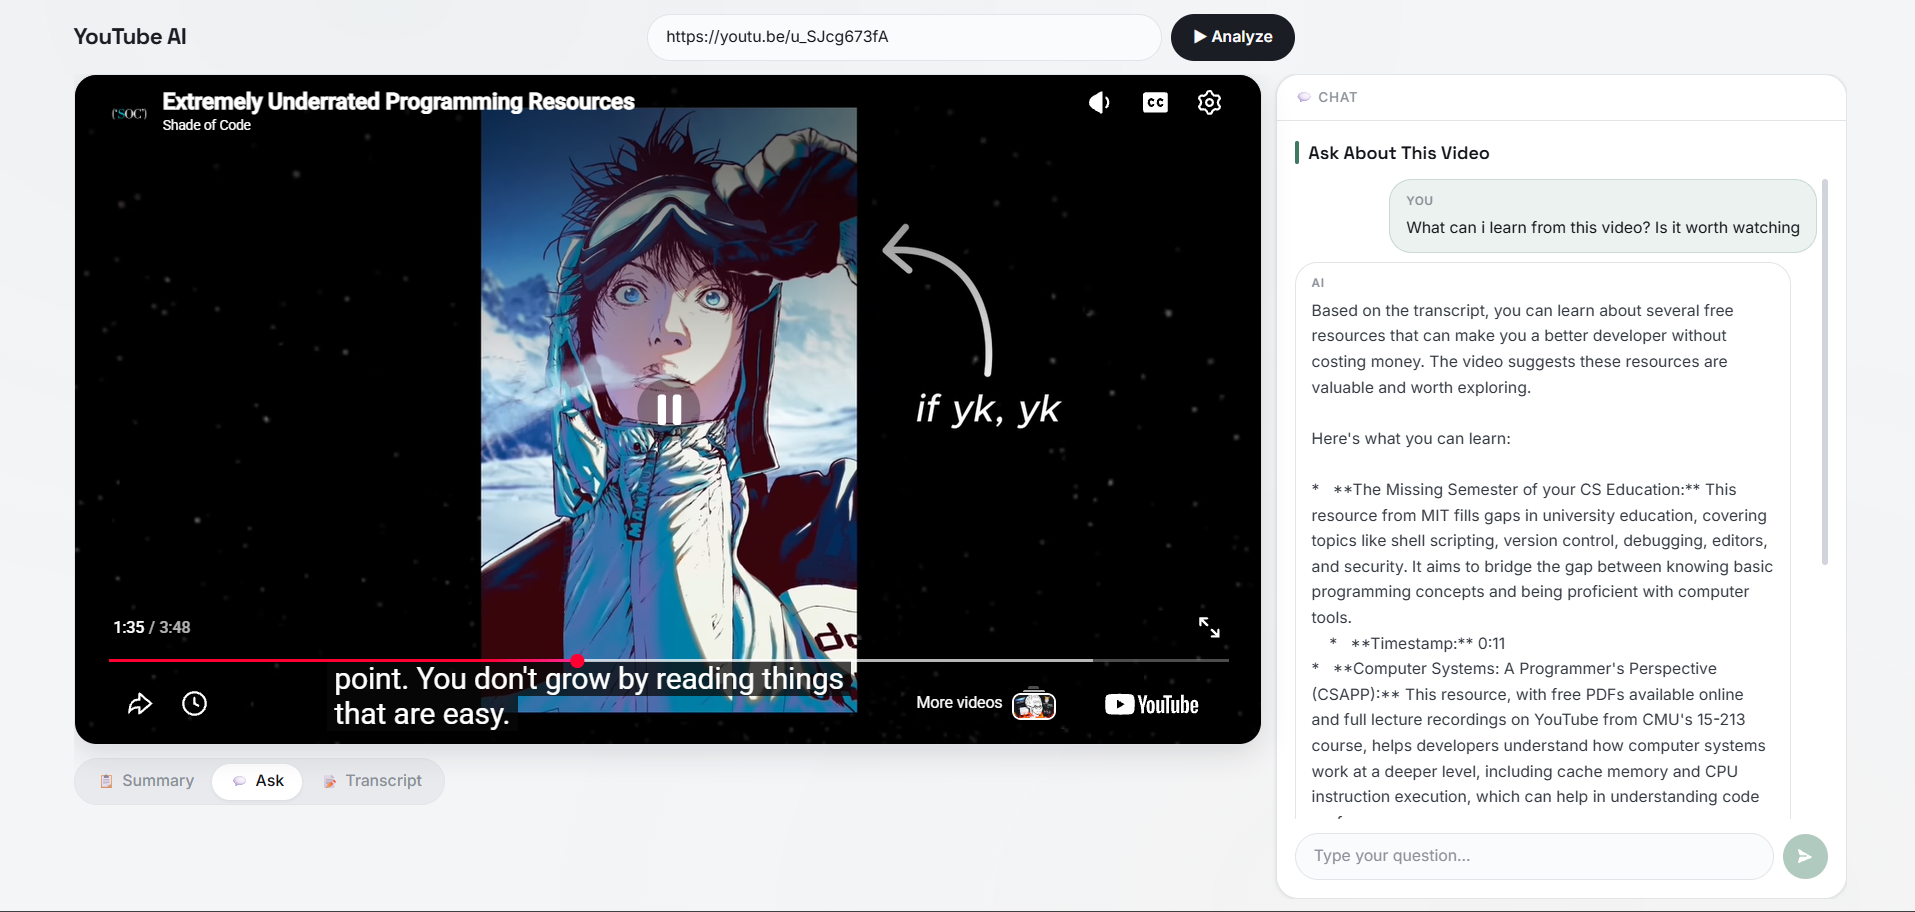
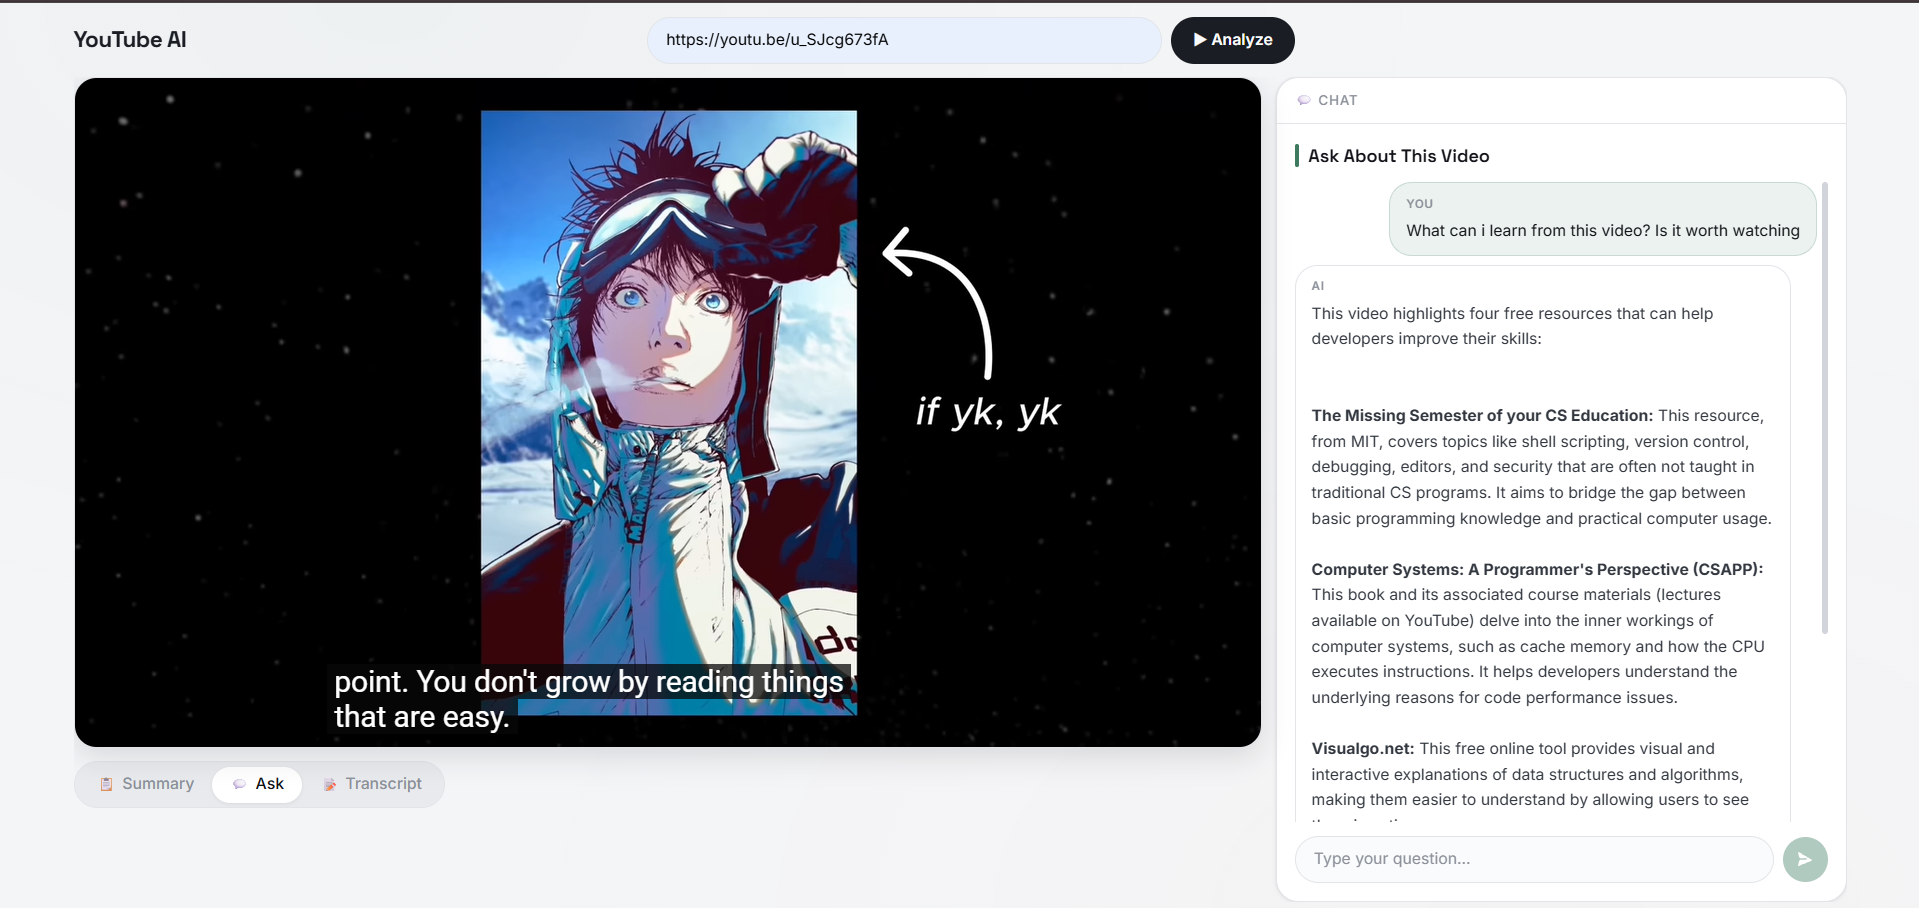
feat: implement base version with gemini service, UI polish, and updated README

Changed region(s): [[0.0, 0.0, 1.0, 0.8943], [0.9243, 0.8943, 0.9551, 0.9868], [0.6778, 0.9251, 0.7702, 0.9559]]

diff --git a/client/src/components/ChatPanel.jsx b/client/src/components/ChatPanel.jsx
@@ -1,5 +1,5 @@
 import { useRef, useEffect } from "react";
-
+import { MarkdownHooks as ReactMarkdown } from "react-markdown";
 /**
  * ChatPanel — Full-height Q&A chat interface.
  *
@@ -62,7 +62,7 @@ function ChatPanel({ chatHistory, question, setQuestion, onAsk, askingAI }) {
             <div className="text-[0.65rem] font-semibold uppercase tracking-wider mb-1 text-text-muted">
               {msg.role === "user" ? "You" : "AI"}
             </div>
-            {msg.text}
+            <ReactMarkdown>{msg.text}</ReactMarkdown>
           </div>
         ))}
 
